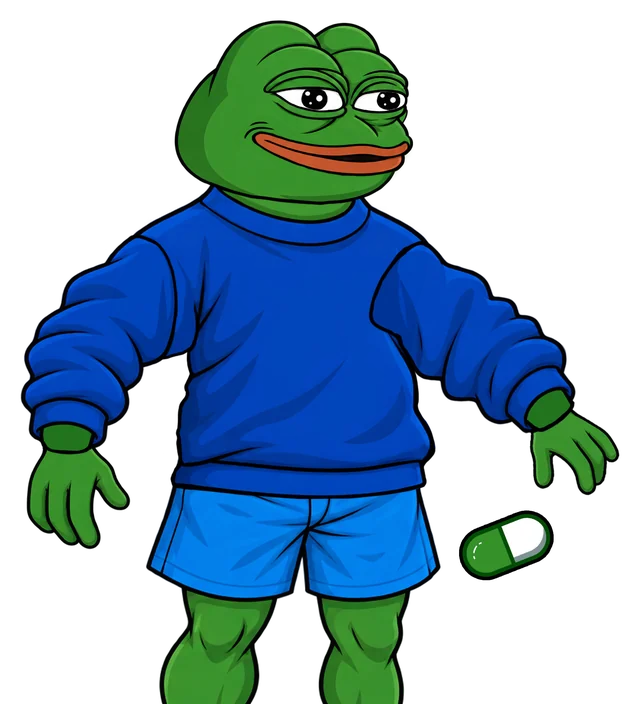
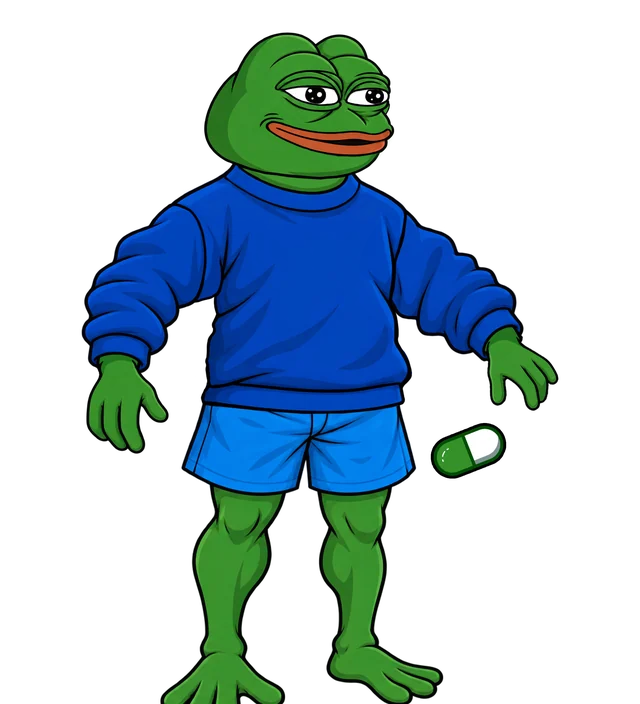
Event boss Pepe (test): «Ивент» button on the home screen → room with the door → a local test fight (no keys, no rewards, weapons not spent); rig: hands over the sleeves, the far arm behind the body, biceps flex with deep elbow bends (forearm foreshortened on the way up), the pill held in the finger
Claude-Session: https://claude.ai/code/session_01E3jaUxUo8xTQNwyakAWMq3

diff --git a/src/client/screens/event-pepe.tsx b/src/client/screens/event-pepe.tsx
@@ -1,0 +1,173 @@
+"use client";
+/*
+ * The event boss Пепе — a test fight for now: the room with the door (as with the other bosses), the door opens and
+ * the fight takes the whole screen. No keys to enter, no rewards; everything is counted here on the phone: the weapons
+ * are not spent, the HP is the event's own and starts over on every visit. The real event (the server fight, the rewards,
+ * when it runs) comes later.
+ */
+import Link from "next/link";
+import { useCallback, useEffect, useRef, useState } from "react";
+import { useGame } from "../store.tsx";
+import { WEAPONS } from "../../content/items.ts";
+import { arenaOf } from "../../content/bosses.ts";
+import { ItemArt } from "../art/items.tsx";
+import { Bar } from "../ui.tsx";
+import { useFx, type Fx } from "../fx/attack.tsx";
+import { DriftingSky } from "../art/sky.tsx";
+import { PepeRig } from "../art/pepe-rig.tsx";
+import { weaponStats } from "../weapon-stats.ts";
+import { full, short } from "../format.ts";
+import { setMusicTrack, sfx, weaponSfx } from "../sound.ts";
+import { haptic } from "../telegram.ts";
+
+export const PEPE_EVENT = { name: "Пепе", title: "Ивент · пробный бой", hp: 250_000, accent: "#3ddc84" };
+const BG = arenaOf("pepe");
+
+export function PepeEventScreen() {
+  const { state } = useGame();
+  const [door, setDoor] = useState<"closed" | "open" | "enter">("closed");
+  const [fighting, setFighting] = useState(false);
+  const [hp, setHp] = useState(PEPE_EVENT.hp);
+  const [hit, setHit] = useState(false);
+  const [ouch, setOuch] = useState(false);
+  const [phrase, setPhrase] = useState<{ text: string; id: number; crit: boolean } | null>(null);
+  const ouchT = useRef<ReturnType<typeof setTimeout> | null>(null);
+  const onImpact = useCallback((f: Fx) => {
+    setHit(true);
+    setTimeout(() => setHit(false), 280);
+    setOuch(true);
+    if (ouchT.current) clearTimeout(ouchT.current);
+    ouchT.current = setTimeout(() => setOuch(false), 1300);
+    setHp((h) => Math.max(0, h - f.damage));
+  }, []);
+  const { play, layer } = useFx(onImpact);
+  useEffect(() => {
+    if (!fighting) return;
+    setMusicTrack("battle");
+    return () => setMusicTrack("calm");
+  }, [fighting]);
+  useEffect(() => {
+    if (!phrase) return;
+    const t = setTimeout(() => setPhrase(null), 1800);
+    return () => clearTimeout(t);
+  }, [phrase]);
+  const won = fighting && hp <= 0;
+  useEffect(() => {
+    if (!won) return;
+    haptic.big();
+    sfx("win");
+  }, [won]);
+
+  const openDoor = async () => {
+    if (door !== "closed") return;
+    setDoor("open");
+    sfx("door");
+    haptic.heavy();
+    await new Promise((r) => setTimeout(r, 850));
+    setDoor("enter");
+    await new Promise((r) => setTimeout(r, 380));
+    setHp(PEPE_EVENT.hp);
+    setFighting(true);
+  };
+  const leave = () => { setFighting(false); setDoor("closed"); };
+  const attack = (id: string) => {
+    if (won) return;
+    const st = weaponStats(state, id);
+    const crit = Math.random() < st.critChance;
+    const dmg = Math.round(st.damage * (crit ? st.crit : 1));
+    haptic.hit();
+    weaponSfx(id, Math.min(1, Math.log10(Math.max(10, st.base) / 10) / Math.log10(50)));
+    if (crit) { haptic.heavy(); sfx("crit"); }
+    play(id, dmg, "", true);
+    setPhrase({ text: `${crit ? "КРИТ! " : ""}−${full(dmg)}`, id: Date.now(), crit });
+  };
+
+  if (fighting) {
+    return (
+      <div className="fit-page fight-page" style={{ ["--acc" as string]: PEPE_EVENT.accent }}>
+        <div className="fight-bg" aria-hidden="true">
+          <DriftingSky className="fight-sky" />
+          {/* eslint-disable-next-line @next/next/no-img-element */}
+          <img src={BG} alt="" draggable={false} />
+        </div>
+        <div className="fight-head">
+          <div className="grow" style={{ minWidth: 0 }}><b className="display boss-name ellipsis">{PEPE_EVENT.name}</b></div>
+          <span className="chip violet">ивент · тест</span>
+        </div>
+        <div className="arena full" style={{ ["--acc" as string]: PEPE_EVENT.accent }}>
+          <div className={`arena-photo ${hit ? "hit" : ""} ${ouch ? "ouch" : ""}`}>
+            <PepeRig className="boss-rig" />
+            <div className="arena-flash" />
+          </div>
+          <div className="arena-top">
+            <Bar value={hp} max={PEPE_EVENT.hp} tone="red" height={24} label={`${full(hp)} / ${full(PEPE_EVENT.hp)}`} />
+          </div>
+          {layer}
+          {won && (
+            <div className="pepe-won">
+              <b className="display">Пепе повержен!</b>
+              <span className="small">Это пробный бой: наград пока нет.</span>
+              <div className="row" style={{ gap: 8, justifyContent: "center" }}>
+                <button className="btn gold" onClick={() => setHp(PEPE_EVENT.hp)}>Ещё раз</button>
+                <button className="btn dark" onClick={leave}>Выйти</button>
+              </div>
+            </div>
+          )}
+        </div>
+        <div className="fight-bottom">
+          {phrase && <div key={phrase.id} className={`phrase-bubble side ${phrase.crit ? "crit" : ""}`}>{phrase.text}</div>}
+          <div className="row fight-bar">
+            <span className="tiny muted">Пробный бой: оружие не тратится, наград нет</span>
+            <span className="grow" />
+            <button className="btn sm dark" onClick={leave}>Выйти</button>
+          </div>
+          <div className="tray" style={{ gridTemplateColumns: `repeat(${WEAPONS.length}, minmax(0, 1fr))` }}>
+            {WEAPONS.map((w) => (
+              <button key={w.id} className={`weapon rar-${w.rarity}`} disabled={won} onClick={() => attack(w.id)} title={`${w.name}: ${w.weapon!.action}`}>
+                <ItemArt id={w.id} size={40} />
+                <span className="w-dmg display">−{short(weaponStats(state, w.id).damage)}</span>
+              </button>
+            ))}
+          </div>
+        </div>
+      </div>
+    );
+  }
+
+  // before the fight: the room with the door, Пепе waits behind it (seen through the window)
+  return (
+    <div className="fit-page door-page" style={{ ["--acc" as string]: PEPE_EVENT.accent }}>
+      {/* eslint-disable-next-line @next/next/no-img-element */}
+      <img className="door-backdrop" src="/assets/door/room.webp" alt="" aria-hidden="true" draggable={false} />
+      <div className={`door-scene ${door}`}>
+        <div className="door-behind">
+          <DriftingSky className="fight-sky" />
+          {/* eslint-disable-next-line @next/next/no-img-element */}
+          <img className="door-behind-bg" src={BG} alt="" draggable={false} />
+          <div className="door-boss pepe-door-boss"><PepeRig view={[180, 0, 820, 1341]} /></div>
+          <div className="door-light" />
+        </div>
+        {/* eslint-disable-next-line @next/next/no-img-element */}
+        <img className="door-room" src="/assets/door/room.webp" alt="" draggable={false} />
+        <div className="door-pass"><span className="tiny">вход<br />свободный</span></div>
+        <button className="door-leaf" onClick={openDoor} aria-label="Открыть дверь и начать пробный бой с Пепе" disabled={door !== "closed"}>
+          {/* eslint-disable-next-line @next/next/no-img-element */}
+          <img src="/assets/door/door.webp" alt="" draggable={false} />
+          <span className="door-hit" />
+          <b className="door-name display">{PEPE_EVENT.name}</b>
+          <span className="door-title">ИВЕНТ</span>
+          <span className="door-plate">
+            <b className="door-plate-title">ПРОБНЫЙ БОЙ</b>
+            <span className="tiny">без ключей и наград</span>
+          </span>
+        </button>
+        {door === "closed" && <span className="door-hint">Нажми на дверь</span>}
+        <div className="door-flash" />
+      </div>
+      <div className="fight-bottom prefight-panel">
+        <div className="tiny muted center mode-hint">Ивент-босс Пепе: здоровье {full(PEPE_EVENT.hp)}. Пока это тест: вход свободный, оружие не тратится, наград нет.</div>
+        <Link className="btn dark block" href="/">На главную</Link>
+      </div>
+    </div>
+  );
+}

diff --git a/src/client/art/pepe-rig.tsx b/src/client/art/pepe-rig.tsx
@@ -16,7 +16,8 @@ type V = readonly [number, number];
 const P = PEPE.pts as unknown as Record<string, V>;
 const L = PEPE.layers as unknown as Record<string, readonly [number, number, number, number]>;
 // the head has holes for the eyes: the whites, the pupils and the four lids lie behind it, the lids slide like shutters
-const ORDER = ["legs", "body", "handL", "handR", "sleeveL", "sleeveR", "whites", "pupils", "lidLL", "lidLR", "lidUL", "lidUR", "head", "mouth", "pill"] as const;
+// the far (right) arm goes behind the body; each hand lies over its own sleeve
+const ORDER = ["legs", "sleeveR", "handR", "body", "sleeveL", "handL", "whites", "pupils", "lidLL", "lidLR", "lidUL", "lidUR", "head", "mouth", "pill"] as const;
 const FACE = new Set<string>(["head", "whites", "pupils", "lidLL", "lidLR", "lidUL", "lidUR"]);
 const LID_SLIDE = PEPE.lids as unknown as Record<"UL" | "UR" | "LL" | "LR", number>;
 type LayerId = (typeof ORDER)[number];
@@ -75,6 +76,11 @@ const local = (p: V, deg: number, dx = 0, dy = 0): A => {
   const r = (deg * Math.PI) / 180, c = Math.cos(r), s = Math.sin(r);
   return [c, s, -s, c, p[0] - c * p[0] + s * p[1] + dx, p[1] - s * p[0] - c * p[1] + dy];
 };
+/** the same, scaled by k about p as well (a forearm coming towards us looks shorter) */
+const localK = (p: V, deg: number, k: number): A => {
+  const r = (deg * Math.PI) / 180, c = Math.cos(r) * k, s = Math.sin(r) * k;
+  return [c, s, -s, c, p[0] - c * p[0] + s * p[1], p[1] - s * p[0] - c * p[1]];
+};
 const ap = (m: A, x: number, y: number): V => [m[0] * x + m[2] * y + m[4], m[1] * x + m[3] * y + m[5]];
 
 function distSeg(x: number, y: number, [a, b]: [V, V]) {
@@ -92,9 +98,10 @@ function breathOf(t: number) {
   const ph = (t % 1.15) / 1.15;
   return ph < 0.38 ? ease(ph / 0.38) : 1 - ease((ph - 0.38) / 0.62);
 }
-const PILL_REST_R: V = mid(P.pillA, P.pillB);
-// the left hand catches it in the same place under its fingers (mirrored)
-const PILL_REST_L: V = [mid(P.fingL1t, P.fingL2t)[0] + 18, mid(P.fingL1t, P.fingL2t)[1] + 58];
+// held between the fingers (drawn over the hand), so it rides along when the arm flexes
+const inFingers = (a: V, b: V, palm: V): V => { const m = mid(a, b); return [m[0] + (palm[0] - m[0]) * 0.3, m[1] + (palm[1] - m[1]) * 0.3]; };
+const PILL_REST_R: V = inFingers(P.fingR1t, P.fingR2t, P.handR);
+const PILL_REST_L: V = inFingers(P.fingL1t, P.fingL2t, P.handL);
 const PILL_CYCLE = 4.6;
 
 function poseAt(t: number): Pose {
@@ -104,8 +111,6 @@ function poseAt(t: number): Pose {
   // the chest rides up on the breath, the head leans back a little, the shoulders lift
   lo.chest = local(P.waist, 0, 0, -7 * b);
   lo.head = local(neck, -2.2 * b + Math.sin(t * 0.7) * 1.2, 0, -2 * b);
-  lo.armL = local(P.shL, 2.5 * b, 0, -2 * b);
-  lo.armR = local(P.shR, -2.5 * b, 0, -2 * b);
   // the pill: in the right hand, a toss over to the left one, a while there, and back
   const c = t % PILL_CYCLE;
   const fly = (u: number, from: V, to: V, dir: number) => {
@@ -121,15 +126,33 @@ function poseAt(t: number): Pose {
   else if (c < T2) pill = fly((c - T1) / (T2 - T1), PILL_REST_R, PILL_REST_L, -1);
   else if (c < T3) pill = { at: PILL_REST_L, rot: 0 };
   else pill = fly((c - T3) / (PILL_CYCLE - T3), PILL_REST_L, PILL_REST_R, 1);
-  const wristR = -24 * flick(T1 - 0.2) + 10 * give(PILL_CYCLE - 0.05) * 0 + 8 * give(0);
+  // the arm that holds the pill shows off a biceps between the tosses: the upper arm goes out, the forearm comes up at the
+  // elbow, a few pumps at the top, and down again in time for the throw
+  const curl = (u0: number, u1: number) => {
+    if (c < u0 || c > u1) return 0;
+    const u = (c - u0) / (u1 - u0);
+    const up = u < 0.28 ? ease(u / 0.28) : u > 0.75 ? 1 - ease((u - 0.75) / 0.25) : 1;
+    return up * (1 + (u > 0.28 && u < 0.75 ? 0.06 * Math.sin(((u - 0.28) / 0.47) * Math.PI * 6) : 0));
+  };
+  const cR = curl(0.05, T1 - 0.25), cL = curl(T2 + 0.15, T3 - 0.25);
+  // the forearm leads (a curl with the elbow down), the upper arm comes up after it — the fist never swings far out
+  const fR = Math.min(1.06, cR * 1.6), fL = Math.min(1.06, cL * 1.6);
+  const uR = clamp01((cR - 0.4) / 0.6), uL = clamp01((cL - 0.4) / 0.6);
+  const wristR = -24 * flick(T1 - 0.2) + 8 * give(0);
   const wristL = 24 * flick(T3 - 0.2) - 8 * give(T2);
   // the fingers squeeze together now and then (two quick squeezes), each hand on its own beat
   const sq = (ofs: number) => { const u = ((t + ofs) % 3.1) / 3.1; return u < 0.12 ? Math.sin((Math.PI * u) / 0.12) : u > 0.18 && u < 0.3 ? Math.sin((Math.PI * (u - 0.18)) / 0.12) : 0; };
   const sL = sq(0.9), sR = sq(0);
-  lo.foreL = local(P.elL, -3 * b);
-  lo.foreR = local(P.elR, 3 * b);
-  lo.handL = local(P.handL, wristL + 4 * b);
-  lo.handR = local(P.handR, wristR - 4 * b);
+  // a biceps pose: the upper arm out level with the shoulder, the forearm straight up, the fist by the head
+  lo.armL = local(P.shL, 2.5 * b + 26 * uL, 0, -2 * b - 6 * uL);
+  lo.armR = local(P.shR, -2.5 * b - 34 * uR, 0, -2 * b - 6 * uR);
+  // halfway up the forearm points at us: it looks shorter, so the fist does not swing far out to the side
+  const shortL = 1 - 0.5 * Math.sin(Math.PI * Math.min(1, fL)), shortR = 1 - 0.4 * Math.sin(Math.PI * Math.min(1, fR));
+  lo.foreL = localK(P.elL, -3 * b + 128 * fL, shortL);
+  lo.foreR = localK(P.elR, 3 * b - 108 * fR, shortR);
+  // the fist turns in a little at the top of the curl
+  lo.handL = localK(P.handL, wristL + 4 * b + 20 * cL, 1 / shortL); // the fist keeps its size
+  lo.handR = localK(P.handR, wristR - 4 * b - 20 * cR, 1 / shortR);
   lo.fingL1 = local(P.fingL1, -7 * sL);
   lo.fingL2 = local(P.handL, 9 * sL);
   lo.fingR1 = local(P.handR, -9 * sR);
@@ -198,7 +221,7 @@ function buildMesh(gl: WebGLRenderingContext, id: LayerId, img: HTMLImageElement
       // the face handles reach only near their points; the body bones blend over a wider band
       // the fingers blend softly (no cracks between them), the arms and the body a little sharper
       const id0 = bones[b];
-      const fall = id0.startsWith("brow") ? 34 : id0.startsWith("mouth") ? 60 : id0.startsWith("fing") || id0 === "handL" || id0 === "handR" ? 40 : 22;
+      const fall = id0.startsWith("brow") ? 34 : id0.startsWith("mouth") ? 60 : id0.startsWith("fing") || id0 === "handL" || id0 === "handR" ? 40 : id0.startsWith("arm") || id0.startsWith("fore") ? 30 : 22;
       const q = 1 / Math.pow(d / fall + 0.05, id0.startsWith("fing") || id0.startsWith("brow") ? 2.5 : 4);
       wt[k * bones.length + b] = q; sum += q;
     }

diff --git a/src/client/art/pepe-data.ts b/src/client/art/pepe-data.ts
@@ -1,2 +1,2 @@
 /* generated by tools/boss/pepe/assemble.py — Пепе's layers ([x, y, w, h] in rig px) and bone points */
-export const PEPE = {"w": 941, "h": 1311, "layers": {"legs": [176.0, 660.0, 522, 646], "body": [160.5, 245.5, 480, 489], "handL": [38.5, 629.0, 154, 179], "handR": [776.5, 580.5, 134, 148], "sleeveL": [30.0, 343.5, 232, 325], "sleeveR": [541.5, 353.0, 306, 284], "whites": [405.0, 129.0, 194, 36], "pupils": [442.5, 129.0, 146, 34], "lidLL": [396.5, 147.5, 112, 53], "lidLR": [506.5, 160.0, 94, 32], "lidUL": [411.0, 94.5, 113, 44], "lidUR": [501.5, 105.5, 94, 37], "head": [256.5, 30.0, 351, 286], "mouth": [359.0, 178.0, 245, 82], "pill": [675.0, 750.5, 139, 102]}, "pts": {"headTL": [408.9, 45.4], "headTR": [513.9, 51.0], "browLtop": [449.4, 96.8], "browRtop": [563.4, 105.0], "browL": [451.6, 119.8], "browR": [568.5, 125.1], "mouthL": [381.9, 201.8], "mouthR": [589.0, 222.2], "mouthM": [515.6, 231.8], "cheek": [281.1, 215.5], "chinL": [399.5, 273.2], "chinR": [519.0, 277.6], "neckL": [292.9, 318.3], "neckR": [572.9, 336.3], "chest": [459.2, 421.2], "belly": [459.2, 527.5], "waist": [459.1, 657.4], "shL": [216.5, 379.5], "elL": [119.2, 481.1], "wrL": [101.3, 600.4], "handL": [93.3, 642.2], "fingL1": [99.0, 683.8], "fingL1t": [101.3, 772.5], "fingL2t": [166.4, 723.3], "shR": [609.2, 398.3], "elR": [720.2, 478.0], "wrR": [787.1, 572.2], "handR": [805.5, 601.2], "fingR2": [832.3, 629.9], "fingR2t": [876.6, 686.9], "fingR1t": [796.2, 687.2], "hipL": [347.4, 760.7], "kneeL": [317.0, 938.6], "footL": [287.7, 1164.8], "hipR": [546.4, 754.4], "kneeR": [555.7, 933.5], "footR": [535.8, 1158.5], "pillA": [703.0, 818.1], "pillM": [747.5, 801.9], "pillB": [789.3, 784.1]}, "lids": {"UL": 25.6, "LL": -18.8, "UR": 19.7, "LR": -20.4}} as const;
+export const PEPE = {"w": 1181, "h": 1341, "layers": {"legs": [296.0, 690.0, 522, 646], "sleeveR": [661.5, 383.0, 306, 284], "handR": [896.5, 610.5, 134, 148], "body": [280.5, 275.5, 480, 489], "sleeveL": [150.0, 373.5, 232, 325], "handL": [158.5, 659.0, 154, 179], "whites": [525.0, 159.0, 194, 36], "pupils": [562.5, 159.0, 146, 34], "lidLL": [516.5, 177.5, 112, 53], "lidLR": [626.5, 190.0, 94, 32], "lidUL": [531.0, 124.5, 113, 44], "lidUR": [621.5, 135.5, 94, 37], "head": [376.5, 60.0, 351, 286], "mouth": [479.0, 208.0, 245, 82], "pill": [795.0, 780.5, 139, 102]}, "pts": {"headTL": [528.9, 75.4], "headTR": [633.9, 81.0], "browLtop": [569.4, 126.8], "browRtop": [683.4, 135.0], "browL": [571.6, 149.8], "browR": [688.5, 155.1], "mouthL": [501.9, 231.8], "mouthR": [709.0, 252.2], "mouthM": [635.6, 261.8], "cheek": [401.1, 245.5], "chinL": [519.5, 303.2], "chinR": [639.0, 307.6], "neckL": [412.9, 348.3], "neckR": [692.9, 366.3], "chest": [579.2, 451.2], "belly": [579.2, 557.5], "waist": [579.1, 687.4], "shL": [336.5, 409.5], "elL": [239.2, 511.1], "wrL": [221.3, 630.4], "handL": [213.3, 672.2], "fingL1": [219.0, 713.8], "fingL1t": [221.3, 802.5], "fingL2t": [286.4, 753.3], "shR": [729.2, 428.3], "elR": [840.2, 508.0], "wrR": [907.1, 602.2], "handR": [925.5, 631.2], "fingR2": [952.3, 659.9], "fingR2t": [996.6, 716.9], "fingR1t": [916.2, 717.2], "hipL": [467.4, 790.7], "kneeL": [437.0, 968.6], "footL": [407.7, 1194.8], "hipR": [666.4, 784.4], "kneeR": [675.7, 963.5], "footR": [655.8, 1188.5], "pillA": [823.0, 848.1], "pillM": [867.5, 831.9], "pillB": [909.3, 814.1]}, "lids": {"UL": 25.6, "LL": -18.8, "UR": 19.7, "LR": -20.4}} as const;

diff --git a/src/app/screens.css b/src/app/screens.css
@@ -4153,3 +4153,14 @@ body { background-attachment: fixed; }
 .pg-gain { position: absolute; z-index: 40; transform: translateX(-50%); display: inline-flex; align-items: center; gap: 3px; pointer-events: none; white-space: nowrap;
   font-weight: 900; font-size: 17px; color: #ffe27a; text-shadow: 0 2px 0 #1a0f05, 0 0 6px rgba(0, 0, 0, 0.7); animation: pg-gain 1.6s ease-out forwards; }
 @keyframes pg-gain { 0% { opacity: 0; transform: translate(-50%, 6px) scale(0.8); } 15% { opacity: 1; transform: translate(-50%, 0) scale(1.08); } 100% { opacity: 0; transform: translate(-50%, -70px) scale(1); } }
+/* «Ивент» on the home screen (right column, under the messages): the event boss's face, the word under it */
+.event-toggle { overflow: visible; border-color: rgba(61, 220, 132, 0.6); animation: event-glow 2.4s ease-in-out infinite; }
+.event-toggle img { width: 100%; height: 100%; object-fit: cover; border-radius: 14px; pointer-events: none; }
+.event-tag { position: absolute; left: 50%; bottom: -8px; transform: translateX(-50%); padding: 1px 5px; border-radius: 6px; background: #3ddc84; color: #0b2414;
+  font-size: 9px; font-weight: 900; letter-spacing: 0.04em; line-height: 1.3; white-space: nowrap; box-shadow: 0 2px 6px rgba(0, 0, 0, 0.35); }
+@keyframes event-glow { 0%, 100% { box-shadow: 0 3px 10px rgba(0, 0, 0, 0.25), 0 0 0 0 rgba(61, 220, 132, 0); } 50% { box-shadow: 0 3px 10px rgba(0, 0, 0, 0.25), 0 0 14px 2px rgba(61, 220, 132, 0.55); } }
+/* Пепе behind the door and in the test fight */
+.pepe-door-boss canvas { width: 100%; height: 100%; }
+.pepe-won { position: absolute; left: 50%; top: 40%; transform: translate(-50%, -50%); z-index: 6; display: flex; flex-direction: column; gap: 8px; align-items: center; text-align: center;
+  padding: 16px 18px; border-radius: 16px; background: rgba(12, 20, 14, 0.86); border: 2px solid #3ddc84; box-shadow: 0 8px 30px rgba(0, 0, 0, 0.5); width: min(86%, 320px); }
+.pepe-won b { font-size: 24px; color: #3ddc84; }

diff --git a/src/client/asset-manifest.ts b/src/client/asset-manifest.ts
@@ -753,6 +753,7 @@ export const ASSET_FILES: string[] = [
  "/assets/updates/2026-10-29-vostok.webp",
  "/assets/updates/2026-10-29-win.webp",
  "/assets/updates/2026-10-30-locations.webp",
+ "/assets/updates/2026-10-30-pepe.webp",
  "/assets/updates/2026-10-30-talents.webp",
  "/assets/updates/2026-10-30-yard2.webp",
  "/assets/upgrader/btn-go.webp",
@@ -901,6 +902,24 @@ export const ASSET_FILES: string[] = [
  "/bosses/mugo/rig/lowR.webp",
  "/bosses/mugo/rig/pupils.webp",
  "/bosses/mugo/rig/tail.webp",
+ "/bosses/pepe/card.webp",
+ "/bosses/pepe/full.webp",
+ "/bosses/pepe/portrait.webp",
+ "/bosses/pepe/rig/body.webp",
+ "/bosses/pepe/rig/handL.webp",
+ "/bosses/pepe/rig/handR.webp",
+ "/bosses/pepe/rig/head.webp",
+ "/bosses/pepe/rig/legs.webp",
+ "/bosses/pepe/rig/lidLL.webp",
+ "/bosses/pepe/rig/lidLR.webp",
+ "/bosses/pepe/rig/lidUL.webp",
+ "/bosses/pepe/rig/lidUR.webp",
+ "/bosses/pepe/rig/mouth.webp",
+ "/bosses/pepe/rig/pill.webp",
+ "/bosses/pepe/rig/pupils.webp",
+ "/bosses/pepe/rig/sleeveL.webp",
+ "/bosses/pepe/rig/sleeveR.webp",
+ "/bosses/pepe/rig/whites.webp",
  "/bosses/vodovoz/card.webp",
  "/bosses/vodovoz/full.webp",
  "/bosses/vodovoz/portrait.webp",

diff --git a/src/client/screens/home.tsx b/src/client/screens/home.tsx
@@ -230,6 +230,12 @@ export function HomeScreen() {
             <Icon name="mail" size={36} />
             {messagesWaiting(state) > 0 && <span className="msg-count num">{messagesWaiting(state)}</span>}
           </button>
+          {/* the event: Пепе (a test fight for now) */}
+          <Link href="/event/pepe" className="menu-toggle event-toggle" aria-label="Ивент: Пепе" title="Ивент: Пепе">
+            {/* eslint-disable-next-line @next/next/no-img-element */}
+            <img src="/bosses/pepe/portrait.webp" alt="" draggable={false} />
+            <span className="event-tag">ИВЕНТ</span>
+          </Link>
           {menuOpen && (
             <div className="menu-drop">
               <button className="icon-btn-art" style={{ ["--c" as string]: "#ff9a3d" }} onClick={openWardrobe} aria-label="Гардероб" title="Гардероб">

diff --git a/src/content/updates.ts b/src/content/updates.ts
@@ -17,6 +17,12 @@ export const todayUpdates = (now: number) => UPDATES.filter((u) => u.id.startsWi
 
 export const UPDATES: UpdateNote[] = [
   {
+    id: "2026-10-30-pepe",
+    date: "30 октября",
+    title: "Скоро ивент: Пепе",
+    items: [{ img: "/assets/updates/2026-10-30-pepe.webp", text: "На главной справа — кнопка «Ивент». За дверью ждёт Пепе: пока пробный бой, вход свободный, оружие не тратится, наград нет." }],
+  },
+  {
     id: "2026-10-30-pigeons",
     date: "30 октября",
     title: "Голуби платят",

diff --git a/src/app/(game)/event/pepe/page.tsx b/src/app/(game)/event/pepe/page.tsx
@@ -1,0 +1,6 @@
+"use client";
+import { PepeEventScreen } from "../../../../client/screens/event-pepe.tsx";
+
+export default function Page() {
+  return <PepeEventScreen />;
+}

diff --git a/tools/boss/pepe/assemble.py b/tools/boss/pepe/assemble.py
@@ -19,7 +19,7 @@ fit = json.load(open(f"{R}/fit.json"))
 LIDS = ["lidLL", "lidLR", "lidUL", "lidUR"]
 for n in ["whites", *LIDS]:
     fit[n] = fit["head"]
-ORDER = ["legs", "body", "handL", "handR", "sleeveL", "sleeveR", "whites", "pupils", *LIDS, "head", "mouth", "pill"]
+ORDER = ["legs", "sleeveR", "handR", "body", "sleeveL", "handL", "whites", "pupils", *LIDS, "head", "mouth", "pill"]
 
 def placed(n):
     f = fit[n]
@@ -37,7 +37,8 @@ for n in ORDER:
 # the whole figure's box with some air (the pill flies, the chest swells)
 bx = comp.split()[3].point(lambda v: 255 if v > 16 else 0).getbbox()
 PAD = 60
-X0, Y0, X1, Y1 = bx[0] - PAD, bx[1] - PAD, bx[2] + PAD, bx[3] + 10
+# wide sides: the arms go out and up when he flexes, the pill flies over his head
+X0, Y0, X1, Y1 = bx[0] - 5 * PAD, bx[1] - 2 * PAD, bx[2] + 5 * PAD, bx[3] + 10
 W, H = round((X1 - X0) * SCALE), round((Y1 - Y0) * SCALE)
 os.makedirs(f"{OUT}/rig", exist_ok=True)
 data = {"w": W, "h": H, "layers": {}, "pts": {}}
